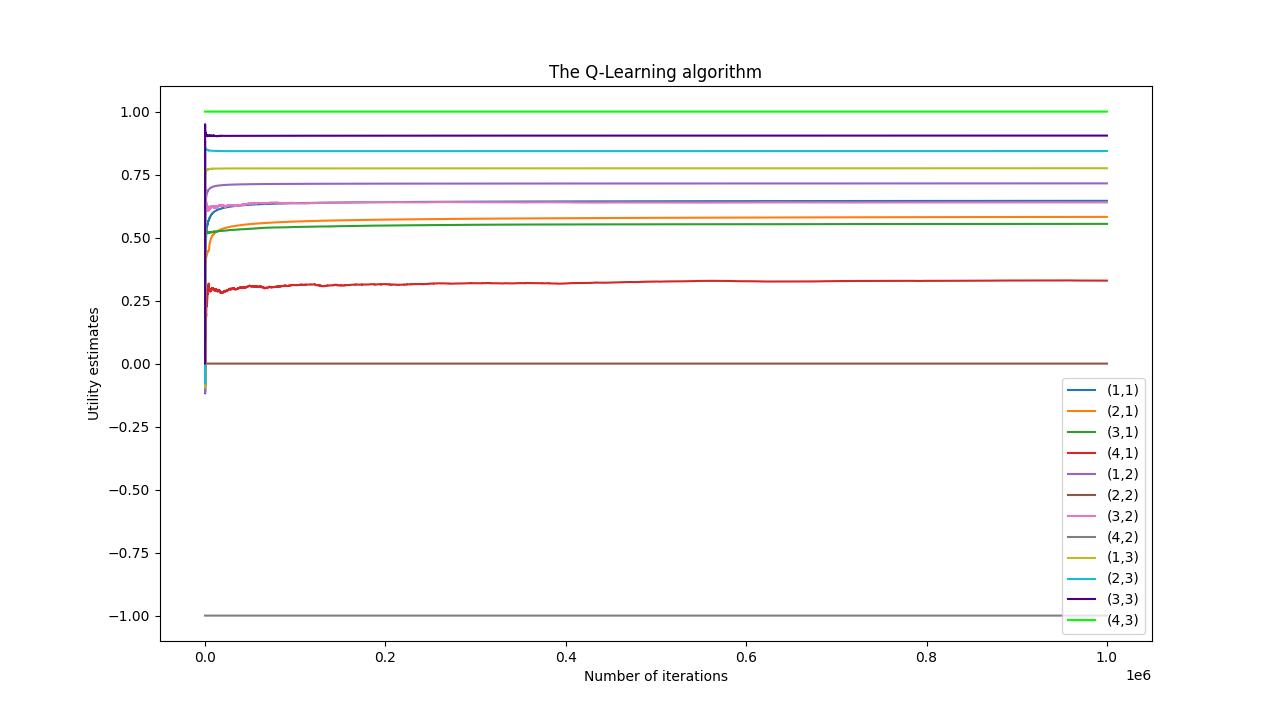
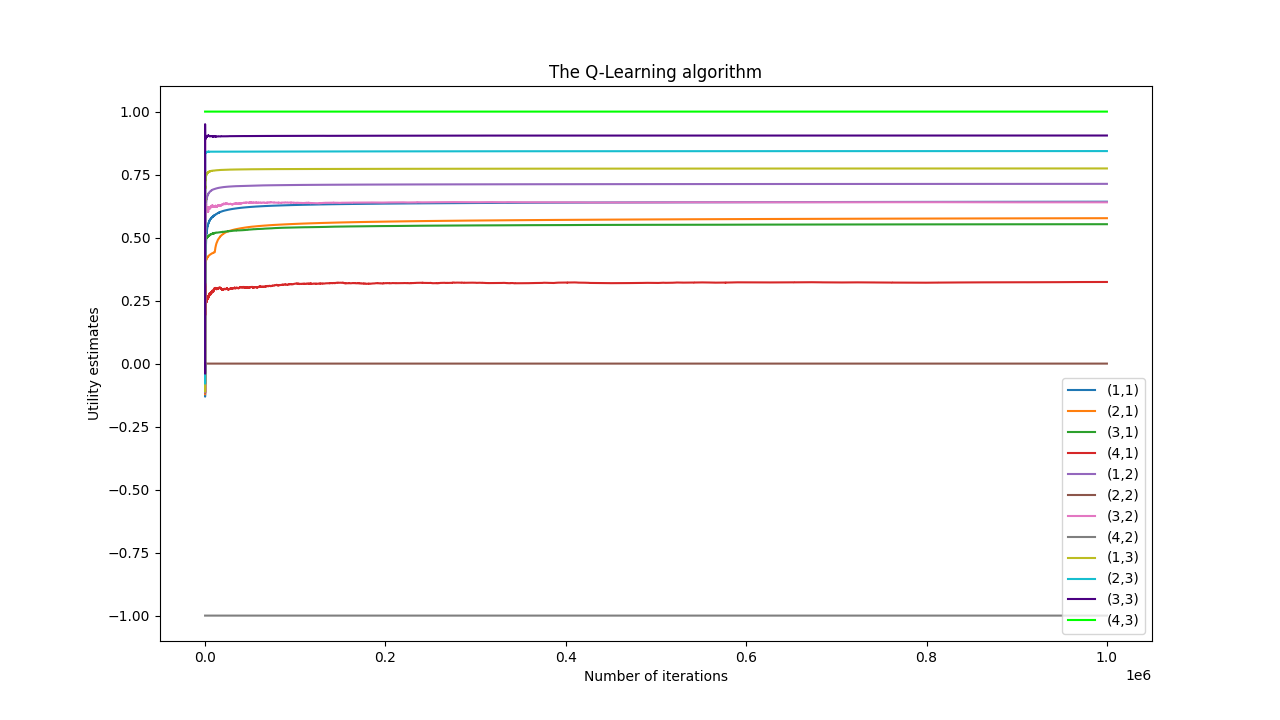
Update README.md

diff --git a/4-Markov-Decision-Problems/README.md b/4-Markov-Decision-Problems/README.md
@@ -130,19 +130,38 @@ Both algorithms validate the input file. When there is no specified starting pos
   +----------+ +----------+ +----------+ +----------+
   |          | |          | |          | | T        |
 3 | >        | | >        | | >        | |          |
-  | 0.7752   | | 0.8434   | | 0.9048   | | 1.0000   |
+  | 0.7744   | | 0.8433   | | 0.9051   | | 1.0000   |
   +----------+ +----------+ +----------+ +----------+
   +----------+ +----------+ +----------+ +----------+
   |          | | F        | |          | | T        |
 2 | ^        | |          | | ^        | |          |
-  | 0.7151   | | 0.0000   | | 0.6395   | | -1.0000  |
+  | 0.7133   | | 0.0000   | | 0.6400   | | -1.0000  |
   +----------+ +----------+ +----------+ +----------+
   +----------+ +----------+ +----------+ +----------+
   | S        | |          | |          | |          |
 1 | ^        | | <        | | ^        | | <        |
-  | 0.6459   | | 0.5822   | | 0.5545   | | 0.3293   |
+  | 0.6424   | | 0.5770   | | 0.5531   | | 0.3239   |
   +----------+ +----------+ +----------+ +----------+
         1            2            3            4
+  +------------+ +------------+ +------------+ +------------+ 
+  | ^   0.7324 | | ^   0.7935 | | ^   0.8588 | | ^   1.0000 | 
+  | <   0.7195 | | <   0.7393 | | <   0.7803 | | <   1.0000 | 
+  | >   0.7744 | | >   0.8433 | | >   0.9051 | | >   1.0000 | 
+  | v   0.6831 | | v   0.7934 | | v   0.6481 | | v   1.0000 | 
+  +------------+ +------------+ +------------+ +------------+ 
+  +------------+ +------------+ +------------+ +------------+ 
+  | ^   0.7133 | | ^   0.0000 | | ^   0.6400 | | ^  -1.0000 | 
+  | <   0.6628 | | <   0.0000 | | <   0.6100 | | <  -1.0000 | 
+  | >   0.6627 | | >   0.0000 | | >  -0.6861 | | >  -1.0000 | 
+  | v   0.6050 | | v   0.0000 | | v   0.3582 | | v  -1.0000 | 
+  +------------+ +------------+ +------------+ +------------+ 
+  +------------+ +------------+ +------------+ +------------+ 
+  | ^   0.6424 | | ^   0.5258 | | ^   0.5531 | | ^  -0.7513 | 
+  | <   0.5976 | | <   0.5770 | | <   0.5233 | | <   0.3239 | 
+  | >   0.5420 | | >   0.5034 | | >   0.3279 | | >   0.1412 | 
+  | v   0.5833 | | v   0.5258 | | v   0.4808 | | v   0.2976 | 
+  +------------+ +------------+ +------------+ +------------+ 
+
 ```
 
 ![QLearning Example](./images/ql_example.png "QLearning Example")
